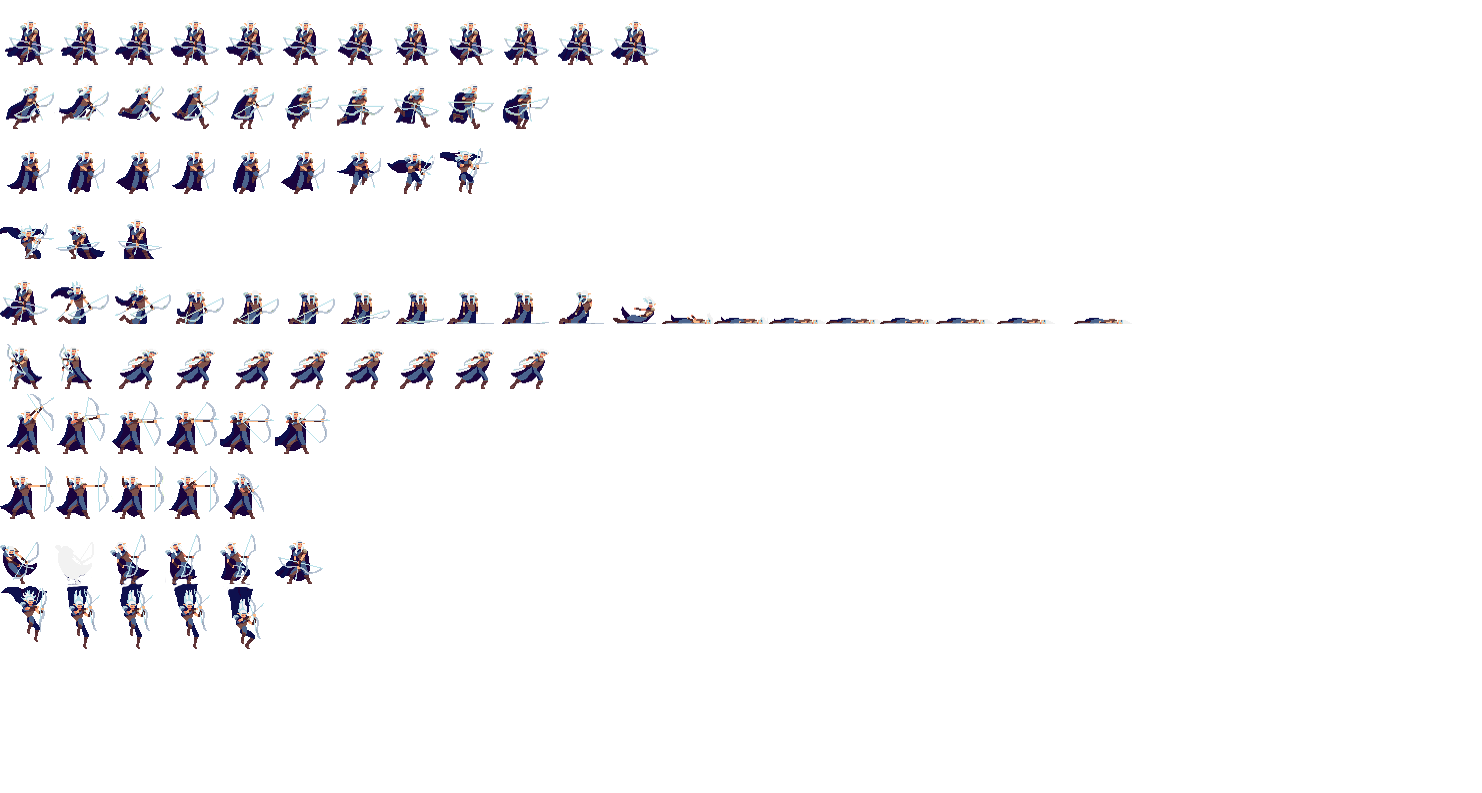
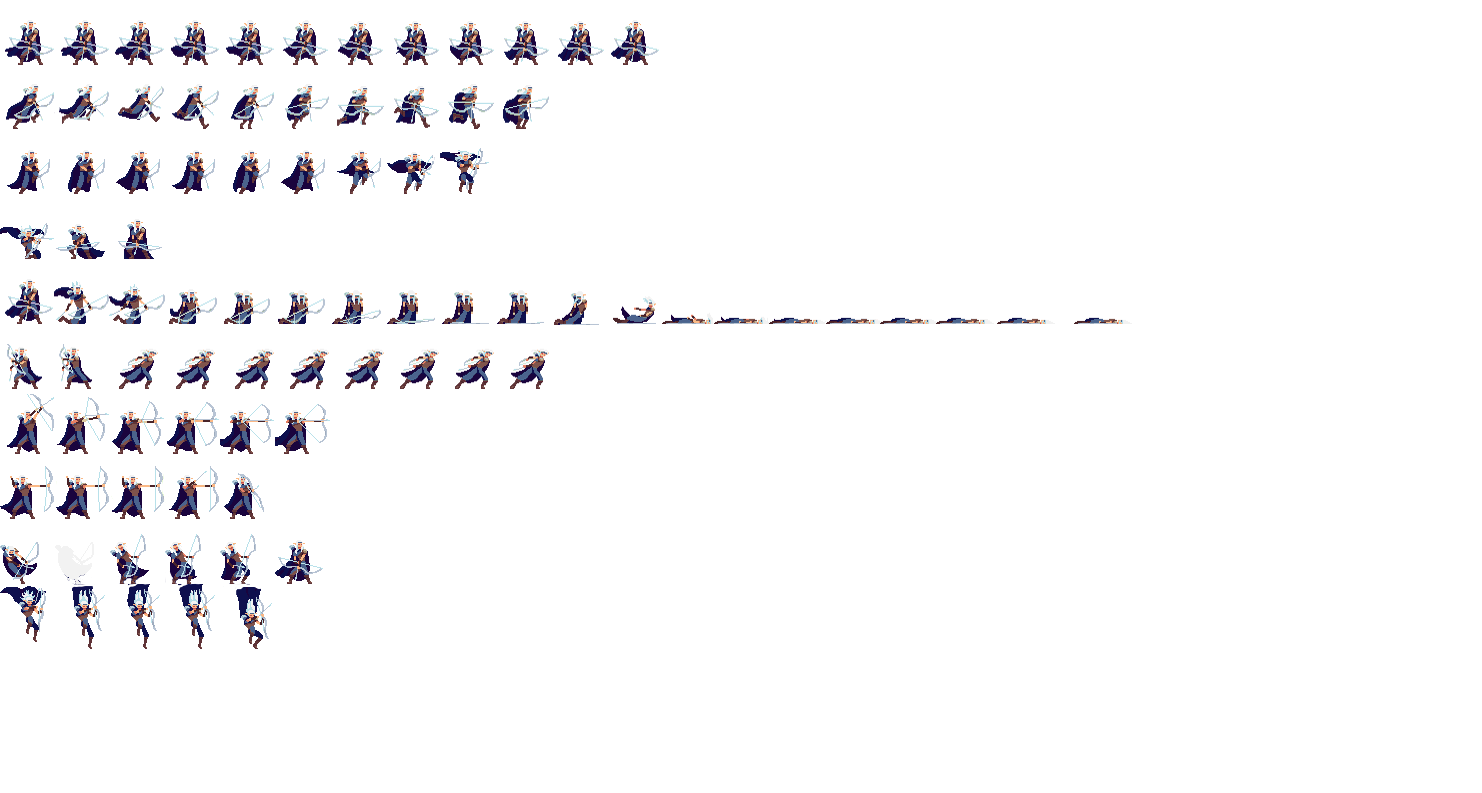
Edited spritework to look somewhat better

Changed region(s): [[0.0621, 0.3632, 0.4035, 0.4237], [0.0, 0.7264, 0.1862, 0.8172], [0.0, 0.3632, 0.031, 0.4237]]

diff --git a/SemesterProject/src/utils/LoadSave.java b/SemesterProject/src/utils/LoadSave.java
@@ -17,7 +17,7 @@ import main.Game;
 public class LoadSave {
     
     public static String PLAYER_SPRITES = "/Artemis_Finished.png";
-    public static String LEVEL_SPRITES = "/World3T.png";
+    public static String LEVEL_SPRITES = "/outside.png";
     public static String LEVEL1_DATA = "/level_one_data.png";
     
     /**

diff --git a/SemesterProject/src/utils/Constants.java b/SemesterProject/src/utils/Constants.java
@@ -39,7 +39,7 @@ public class Constants {
                case JUMPSTART:
                    return 9;
                case JUMPEND:
-                   return 3;
+                   return 5;
                case DIE:
                    return 20;
                case DASH:
